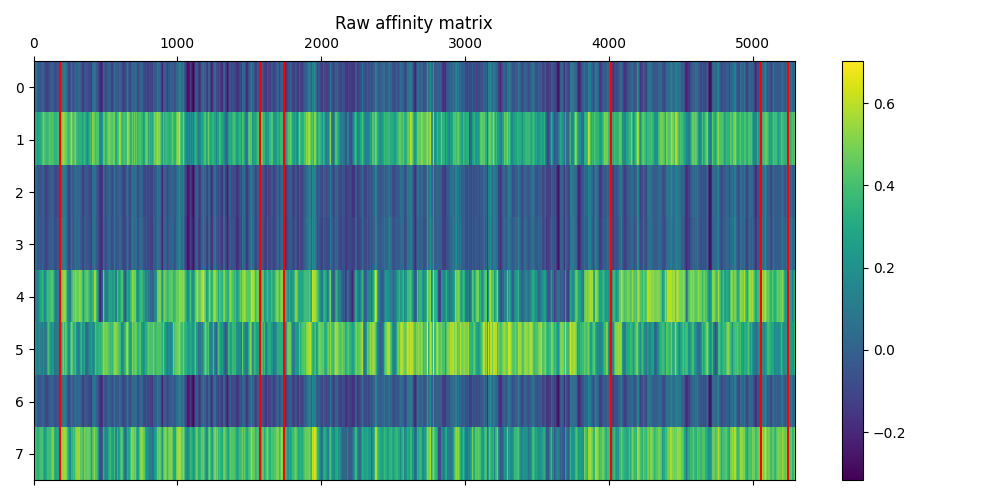
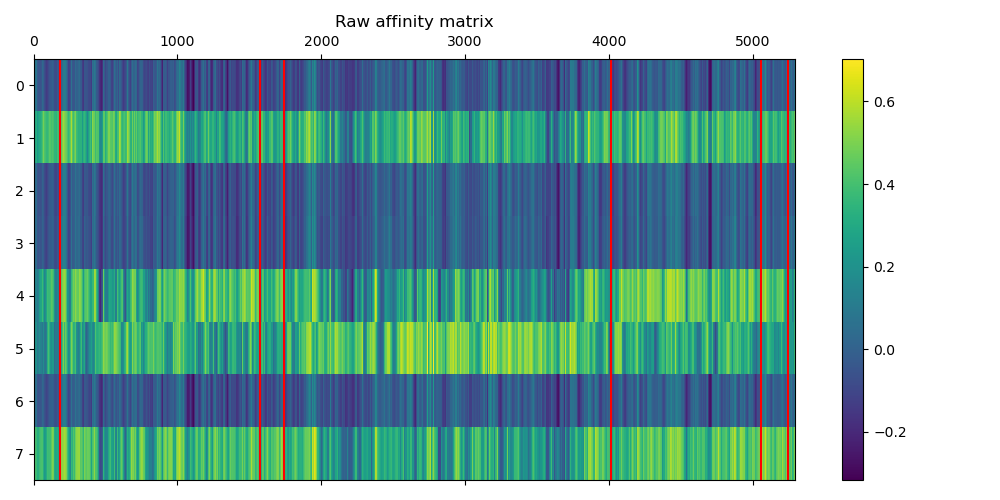
tidied up sinkhorn projection code to match peyre paper and removed entropy

diff --git a/src/asot.py b/src/asot.py
@@ -23,26 +23,28 @@ def grad_fgw(T, cost_matrix, alpha, Cv):
     T_Ck = T.sum(dim=2, keepdim=True) - T
     return alpha * mult_Cv(Cv, T_Ck) + (1. - alpha) * cost_matrix
 
-def grad_kld(T, p, lambd, axis):
+def grad_kld(T, p, lambd, axis, eps=1e-12):
     # p is marginal, dim is marginal axes
     marg = T.sum(dim=axis, keepdim=True)
-    return lambd * (torch.log(marg / p + 1e-12) + 1.)
-
-def grad_entropy(T, eps):
-    return - torch.log(T + 1e-12) * eps
+    return lambd * (torch.log(marg / p + eps) + 1.)
 
 
-# Sinkhorn projections for balanced ASOT (balanced assignment for frames AND actions)
+# Projection finds for matrix K with all positive elements, the closest matrix on the transport polytope
+# under the KL divergence using the Sinkhorn algorithm. Used for fully balanced ASOT (marginal constraints on frames and actions).
+# NOTE: selection of entropy should only affect convergence rate, not the actual solution of the projection.
+# See Peyre et al. 16 Proposition 2.
 
-def project_to_polytope_KL(cost_matrix, mask, eps, dx, dy, n_iters=10, stable_thres=7.):
+def project_to_polytope_KL(K, mask, eps, dx, dy, n_iters=10, stable_thres=7.):
+    assert (K >= 0.0).all(), "Values of matrix for KLD projection are not all positive."
     # runs sinkhorn algorithm on dual potentials w/log domain stabilization
-    dev = cost_matrix.device
-    B, N, K = cost_matrix.shape
-    dual_pot = torch.exp(-cost_matrix / eps) * mask.unsqueeze(2)
+    dev = K.device
+    B, N, M = K.shape
+    cost = -eps * torch.log(K + 1e-12)
+    dual_pot = K * mask.unsqueeze(2)
     dual_pot = dual_pot / dual_pot.max()
-    b = torch.ones((B, K, 1), device=dev)
+    b = torch.ones((B, M, 1), device=dev)
     u = torch.zeros((B, N, 1), device=dev)
-    v = torch.zeros((K, 1), device=dev)
+    v = torch.zeros((M, 1), device=dev)
 
     for i in range(n_iters):
         a = dx / (dual_pot @ b)
@@ -53,7 +55,7 @@ def project_to_polytope_KL(cost_matrix, mask, eps, dx, dy, n_iters=10, stable_th
             if i != n_iters - 1:
                 u = torch.nan_to_num(u + eps * torch.log(a), posinf=0., neginf=0.)
                 v = torch.nan_to_num(v + eps * torch.log(b), posinf=0., neginf=0.)
-                dual_pot = torch.exp((u + v.transpose(1, 2) - cost_matrix) / eps) * mask.unsqueeze(2)
+                dual_pot = torch.exp((u + v.transpose(1, 2) - cost) / eps) * mask.unsqueeze(2)
                 b = torch.ones_like(b)
     T = a * dual_pot * b.transpose(1, 2)
     return T
@@ -65,11 +67,7 @@ def kld(a, b, eps=1e-10):
     return (a * torch.log(a / b + eps)).sum(dim=1)
 
 
-def entropy(T, eps=1e-10):
-    return (-T * torch.log(T + eps) + T).sum(dim=(1, 2))
-
-
-def asot_objective(T, cost_matrix, eps, alpha, radius, ub_frames, ub_actions,
+def asot_objective(T, cost_matrix, alpha, radius, ub_frames, ub_actions,
                    lambda_frames, lambda_actions, mask=None):
     dev = cost_matrix.device
     B, N, K = cost_matrix.shape
@@ -98,20 +96,22 @@ def asot_objective(T, cost_matrix, eps, alpha, radius, ub_frames, ub_actions,
     if ub_actions:
         ub += actions_ub_penalty
     
-    # entropy reg
-    entr = -eps * entropy(T)
-    
     # objective
-    obj = 0.5 * fgw_obj + ub + entr
+    obj = 0.5 * fgw_obj + ub
     
     return obj
 
 
-# ASOT solver
+# ASOT solver. Note: n_iters can be a tuple, e.g., (25, 10) if the inner SH projection is used
 
 def segment_asot(cost_matrix, mask=None, eps=0.07, alpha=0.3, radius=0.04, ub_frames=False,
-                 ub_actions=True, lambda_frames=0.1, lambda_actions=0.05, n_iters=(25, 1),
+                 ub_actions=True, lambda_frames=0.1, lambda_actions=0.05, n_iters=25,
                  stable_thres=7., step_size=None):
+    if type(n_iters) is int:
+        n_iters_out, n_iters_in = n_iters, 0
+    else:
+        n_iters_out, n_iters_in = n_iters
+
     dev = cost_matrix.device
     B, N, K = cost_matrix.shape
     if mask is None:
@@ -131,16 +131,16 @@ def segment_asot(cost_matrix, mask=None, eps=0.07, alpha=0.3, radius=0.04, ub_fr
 
     while True:
         with torch.no_grad():
-            obj = asot_objective(T, cost_matrix, eps, alpha, radius, ub_frames, ub_actions,
+            obj = asot_objective(T, cost_matrix, alpha, radius, ub_frames, ub_actions,
                                 lambda_frames, lambda_actions, mask=mask)
         obj_trace.append(obj)
         
-        if it >= n_iters[0]:
+        if it >= n_iters_out:
             break
         
         # gradient of objective function required for mirror descent step
         fgw_cost_matrix = grad_fgw(T, cost_matrix, alpha, Cv)
-        grad_obj = fgw_cost_matrix - grad_entropy(T, eps)
+        grad_obj = fgw_cost_matrix
         if ub_frames:
             grad_obj += grad_kld(T, dx, lambda_frames, 2)
         if ub_actions:
@@ -151,17 +151,17 @@ def segment_asot(cost_matrix, mask=None, eps=0.07, alpha=0.3, radius=0.04, ub_fr
             step_size = 4. / grad_obj.max().item()
 
         # update step - note, no projection required if both sides are unbalanced
-        T = T * torch.exp(-step_size * grad_obj)
+        T_step = T * torch.exp(-step_size * grad_obj)
         
         if not ub_frames and not ub_actions:
-            T = project_to_polytope_KL(fgw_cost_matrix, mask, eps, dx, dy,
-                                       n_iters=n_iters[1], stable_thres=stable_thres)
+            T = project_to_polytope_KL(T_step, mask, eps, dx, dy,
+                                       n_iters=n_iters_in, stable_thres=stable_thres)
         elif not ub_frames:
-            T /= T.sum(dim=2, keepdim=True)
+            T = T_step / T_step.sum(dim=2, keepdim=True)
             T = torch.nan_to_num(T, posinf=0., neginf=0.)
             T = T * dx
         elif not ub_actions:
-            T /= T.sum(dim=1, keepdim=True)
+            T = T_step / T_step.sum(dim=1, keepdim=True)
             T = torch.nan_to_num(T, posinf=0., neginf=0.)
             T = T * dy.transpose(1, 2)
         

diff --git a/examples/asot.py b/examples/asot.py
@@ -23,26 +23,28 @@ def grad_fgw(T, cost_matrix, alpha, Cv):
     T_Ck = T.sum(dim=2, keepdim=True) - T
     return alpha * mult_Cv(Cv, T_Ck) + (1. - alpha) * cost_matrix
 
-def grad_kld(T, p, lambd, axis):
+def grad_kld(T, p, lambd, axis, eps=1e-12):
     # p is marginal, dim is marginal axes
     marg = T.sum(dim=axis, keepdim=True)
-    return lambd * (torch.log(marg / p + 1e-12) + 1.)
-
-def grad_entropy(T, eps):
-    return - torch.log(T + 1e-12) * eps
+    return lambd * (torch.log(marg / p + eps) + 1.)
 
 
-# Sinkhorn projections for balanced ASOT (balanced assignment for frames AND actions)
+# Projection finds for matrix K with all positive elements, the closest matrix on the transport polytope
+# under the KL divergence using the Sinkhorn algorithm. Used for fully balanced ASOT (marginal constraints on frames and actions).
+# NOTE: selection of entropy should only affect convergence rate, not the actual solution of the projection.
+# See Peyre et al. 16 Proposition 2.
 
-def project_to_polytope_KL(cost_matrix, mask, eps, dx, dy, n_iters=10, stable_thres=7.):
+def project_to_polytope_KL(K, mask, eps, dx, dy, n_iters=10, stable_thres=7.):
+    assert (K > 0.0).all(), "Values of matrix for KLD projection are not all positive."
     # runs sinkhorn algorithm on dual potentials w/log domain stabilization
-    dev = cost_matrix.device
-    B, N, K = cost_matrix.shape
-    dual_pot = torch.exp(-cost_matrix / eps) * mask.unsqueeze(2)
+    dev = K.device
+    B, N, M = K.shape
+    cost = -eps * torch.log(dual_pot)
+    dual_pot = K * mask.unsqueeze(2)
     dual_pot = dual_pot / dual_pot.max()
-    b = torch.ones((B, K, 1), device=dev)
+    b = torch.ones((B, M, 1), device=dev)
     u = torch.zeros((B, N, 1), device=dev)
-    v = torch.zeros((K, 1), device=dev)
+    v = torch.zeros((M, 1), device=dev)
 
     for i in range(n_iters):
         a = dx / (dual_pot @ b)
@@ -53,7 +55,7 @@ def project_to_polytope_KL(cost_matrix, mask, eps, dx, dy, n_iters=10, stable_th
             if i != n_iters - 1:
                 u = torch.nan_to_num(u + eps * torch.log(a), posinf=0., neginf=0.)
                 v = torch.nan_to_num(v + eps * torch.log(b), posinf=0., neginf=0.)
-                dual_pot = torch.exp((u + v.transpose(1, 2) - cost_matrix) / eps) * mask.unsqueeze(2)
+                dual_pot = torch.exp((u + v.transpose(1, 2) - cost) / eps) * mask.unsqueeze(2)
                 b = torch.ones_like(b)
     T = a * dual_pot * b.transpose(1, 2)
     return T
@@ -65,11 +67,7 @@ def kld(a, b, eps=1e-10):
     return (a * torch.log(a / b + eps)).sum(dim=1)
 
 
-def entropy(T, eps=1e-10):
-    return (-T * torch.log(T + eps) + T).sum(dim=(1, 2))
-
-
-def asot_objective(T, cost_matrix, eps, alpha, radius, ub_frames, ub_actions,
+def asot_objective(T, cost_matrix, alpha, radius, ub_frames, ub_actions,
                    lambda_frames, lambda_actions, mask=None):
     dev = cost_matrix.device
     B, N, K = cost_matrix.shape
@@ -98,20 +96,22 @@ def asot_objective(T, cost_matrix, eps, alpha, radius, ub_frames, ub_actions,
     if ub_actions:
         ub += actions_ub_penalty
     
-    # entropy reg
-    entr = -eps * entropy(T)
-    
     # objective
-    obj = 0.5 * fgw_obj + ub + entr
+    obj = 0.5 * fgw_obj + ub
     
     return obj
 
 
-# ASOT solver
+# ASOT solver. Note: n_iters can be a tuple, e.g., (25, 10) if the inner SH projection is used
 
 def segment_asot(cost_matrix, mask=None, eps=0.07, alpha=0.3, radius=0.04, ub_frames=False,
-                 ub_actions=True, lambda_frames=0.1, lambda_actions=0.05, n_iters=(25, 1),
+                 ub_actions=True, lambda_frames=0.1, lambda_actions=0.05, n_iters=25,
                  stable_thres=7., step_size=None):
+    if type(n_iters) is int:
+        n_iters_out, n_iters_in = n_iters, 0
+    else:
+        n_iters_out, n_iters_in = n_iters
+
     dev = cost_matrix.device
     B, N, K = cost_matrix.shape
     if mask is None:
@@ -131,16 +131,16 @@ def segment_asot(cost_matrix, mask=None, eps=0.07, alpha=0.3, radius=0.04, ub_fr
 
     while True:
         with torch.no_grad():
-            obj = asot_objective(T, cost_matrix, eps, alpha, radius, ub_frames, ub_actions,
+            obj = asot_objective(T, cost_matrix, alpha, radius, ub_frames, ub_actions,
                                 lambda_frames, lambda_actions, mask=mask)
         obj_trace.append(obj)
         
-        if it >= n_iters[0]:
+        if it >= n_iters_out:
             break
         
         # gradient of objective function required for mirror descent step
         fgw_cost_matrix = grad_fgw(T, cost_matrix, alpha, Cv)
-        grad_obj = fgw_cost_matrix - grad_entropy(T, eps)
+        grad_obj = fgw_cost_matrix
         if ub_frames:
             grad_obj += grad_kld(T, dx, lambda_frames, 2)
         if ub_actions:
@@ -151,17 +151,17 @@ def segment_asot(cost_matrix, mask=None, eps=0.07, alpha=0.3, radius=0.04, ub_fr
             step_size = 4. / grad_obj.max().item()
 
         # update step - note, no projection required if both sides are unbalanced
-        T = T * torch.exp(-step_size * grad_obj)
+        T_step = T * torch.exp(-step_size * grad_obj)
         
         if not ub_frames and not ub_actions:
-            T = project_to_polytope_KL(fgw_cost_matrix, mask, eps, dx, dy,
-                                       n_iters=n_iters[1], stable_thres=stable_thres)
+            T = project_to_polytope_KL(T_step, mask, eps, dx, dy,
+                                       n_iters=n_iters_in, stable_thres=stable_thres)
         elif not ub_frames:
-            T /= T.sum(dim=2, keepdim=True)
+            T = T_step / T_step.sum(dim=2, keepdim=True)
             T = torch.nan_to_num(T, posinf=0., neginf=0.)
             T = T * dx
         elif not ub_actions:
-            T /= T.sum(dim=1, keepdim=True)
+            T = T_step / T_step.sum(dim=1, keepdim=True)
             T = torch.nan_to_num(T, posinf=0., neginf=0.)
             T = T * dy.transpose(1, 2)
         

diff --git a/src/train.py b/src/train.py
@@ -23,7 +23,7 @@ num_eps = 1e-11
 
 class VideoSSL(pl.LightningModule):
     def __init__(self, lr=1e-4, weight_decay=1e-4, layer_sizes=[64, 128, 40], n_clusters=20, alpha_train=0.3, alpha_eval=0.3,
-                 n_ot_train=[50, 1], n_ot_eval=[50, 1], step_size=None, train_eps=0.06, eval_eps=0.01, ub_frames=False, ub_actions=True,
+                 n_ot_train=50, n_ot_eval=50, step_size=None, train_eps=0.06, eval_eps=0.01, ub_frames=False, ub_actions=True,
                  lambda_frames_train=0.05, lambda_actions_train=0.05, lambda_frames_eval=0.05, lambda_actions_eval=0.01,
                  temp=0.1, radius_gw=0.04, learn_clusters=True, n_frames=256, rho=0.1, exclude_cls=None, visualize=False):
         super().__init__()
@@ -261,11 +261,11 @@ if __name__ == '__main__':
     parser.add_argument('--lambda-actions-train', '-lat', type=float, default=0.05, help='penalty on balanced actions assumption for training')
     parser.add_argument('--lambda-frames-eval', '-lfe', type=float, default=0.05, help='penalty on balanced frames assumption for test')
     parser.add_argument('--lambda-actions-eval', '-lae', type=float, default=0.01, help='penalty on balanced actions assumption for test')
-    parser.add_argument('--eps-train', '-et', type=float, default=0.07, help='entropy regularization for OT during training')
-    parser.add_argument('--eps-eval', '-ee', type=float, default=0.04, help='entropy regularization for OT during val/test')
+    parser.add_argument('--eps-train', '-et', type=float, default=0.05, help='entropy regularization for OT during training')
+    parser.add_argument('--eps-eval', '-ee', type=float, default=0.05, help='entropy regularization for OT during val/test')
     parser.add_argument('--radius-gw', '-r', type=float, default=0.04, help='Radius parameter for GW structure loss')
-    parser.add_argument('--n-ot-train', '-nt', type=int, nargs='+', default=[25, 1], help='number of outer and inner iterations for ASOT solver (train)')
-    parser.add_argument('--n-ot-eval', '-no', type=int, nargs='+', default=[25, 1], help='number of outer and inner iterations for ASOT solver (eval)')
+    parser.add_argument('--n-ot-train', '-nt', type=int, nargs='+', default=25, help='number of outer and inner iterations for ASOT solver (train)')
+    parser.add_argument('--n-ot-eval', '-no', type=int, nargs='+', default=25, help='number of outer and inner iterations for ASOT solver (eval)')
     parser.add_argument('--step-size', '-ss', type=float, default=None,
                         help='Step size/learning rate for ASOT solver. Worth setting manually if ub-frames && ub-actions')
 

diff --git a/examples/example.py b/examples/example.py
@@ -17,12 +17,12 @@ dataset = 'da' if '2020' in vidname else 'salat'
 
 if dataset == 'da':
     ub_weight = 0.09  # DA hparams
-    eps = 0.01
+    eps = 0.1
     alpha = 0.6
     r = 0.02
 else:
     ub_weight = 0.06  # BF (Salat) hparams
-    eps = 0.01
+    eps = 0.1
     alpha = 0.6
     r = 0.04
 
